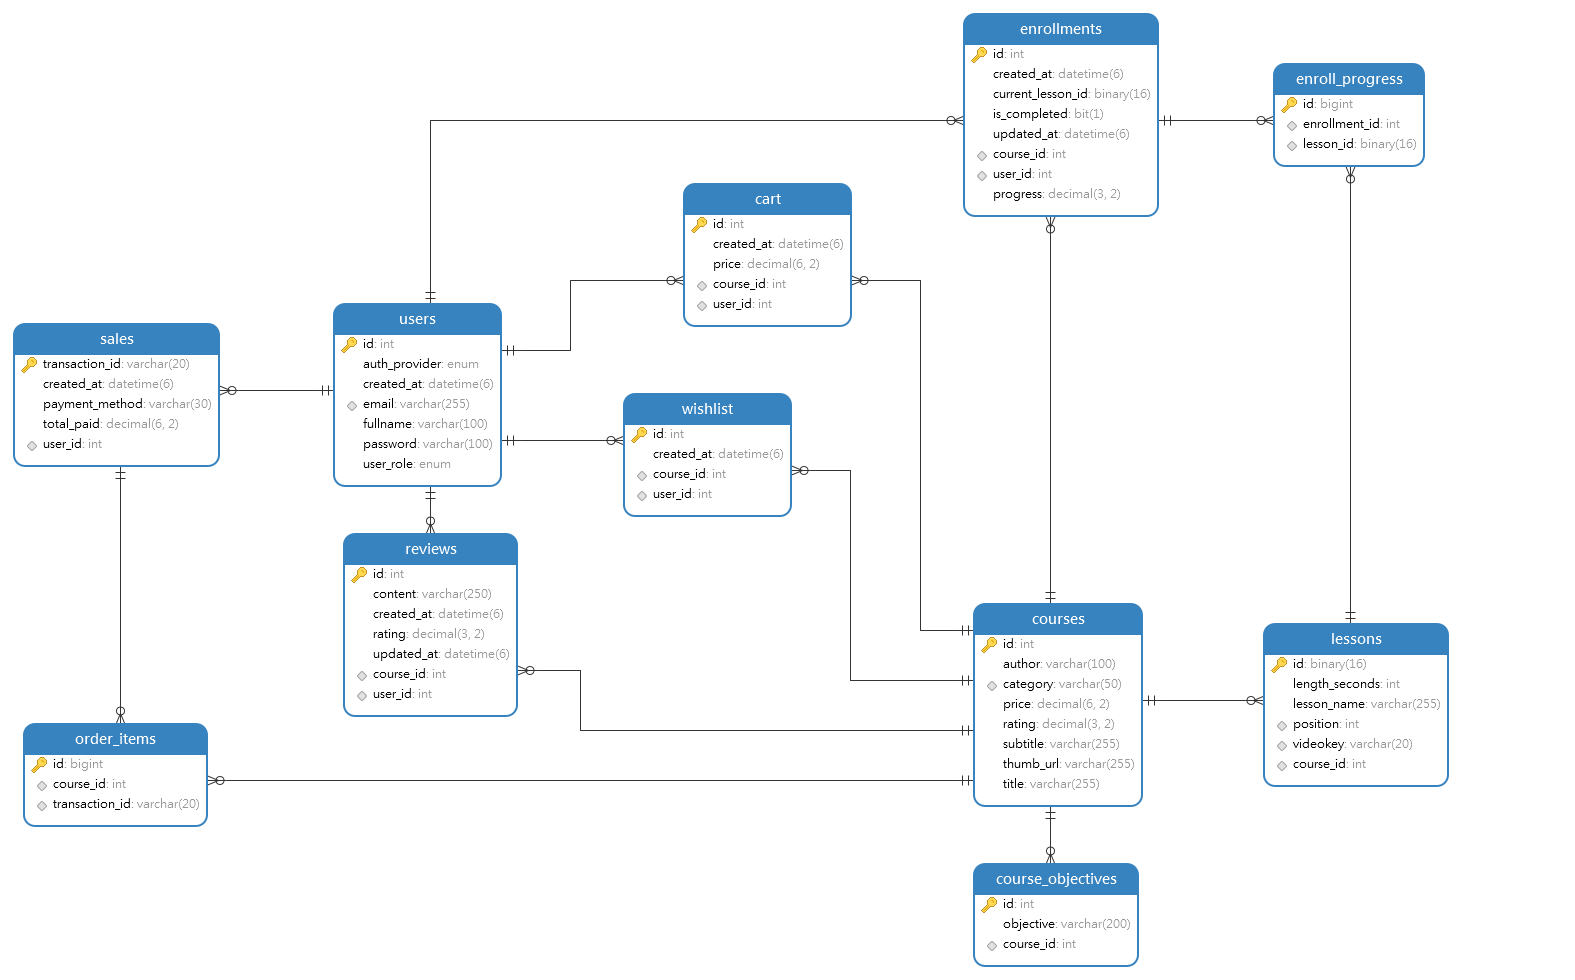
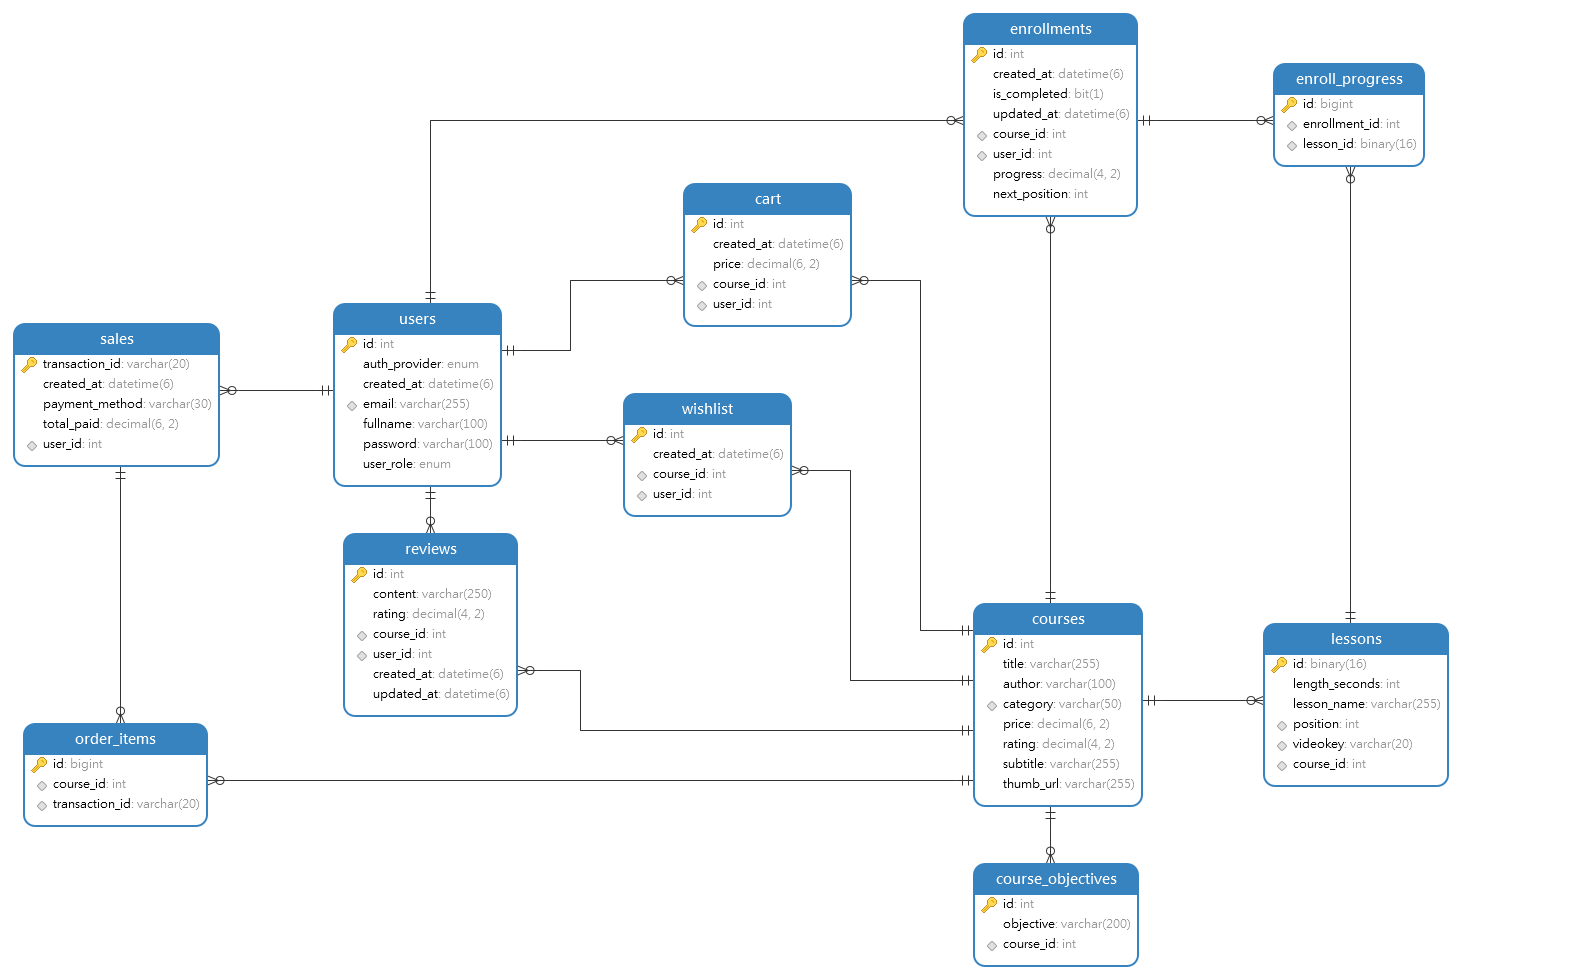
SUPER COMPLEX NATIVE QUERY for WatchedLessons

diff --git a/src/main/java/com/davistiba/wedemyserver/controllers/LessonController.java b/src/main/java/com/davistiba/wedemyserver/controllers/LessonController.java
@@ -1,34 +1,24 @@
 package com.davistiba.wedemyserver.controllers;
 
-import com.davistiba.wedemyserver.dto.VideoRequest;
-import com.davistiba.wedemyserver.dto.VideoResponse;
 import com.davistiba.wedemyserver.models.Course;
-import com.davistiba.wedemyserver.models.Enrollment;
 import com.davistiba.wedemyserver.models.Lesson;
 import com.davistiba.wedemyserver.models.MyCustomResponse;
 import com.davistiba.wedemyserver.repository.CourseRepository;
-import com.davistiba.wedemyserver.repository.EnrollmentRepository;
 import com.davistiba.wedemyserver.repository.LessonRepository;
-import com.davistiba.wedemyserver.service.MyUserDetailsService;
 import org.slf4j.Logger;
 import org.slf4j.LoggerFactory;
 import org.springframework.beans.factory.annotation.Autowired;
 import org.springframework.data.domain.PageRequest;
 import org.springframework.http.HttpStatus;
-import org.springframework.http.ResponseEntity;
 import org.springframework.scheduling.annotation.Async;
 import org.springframework.security.access.annotation.Secured;
 import org.springframework.web.bind.annotation.*;
-import org.springframework.web.server.ResponseStatusException;
 
-import javax.servlet.http.HttpSession;
-import javax.validation.Valid;
 import javax.validation.constraints.NotEmpty;
 import javax.validation.constraints.NotNull;
 import java.util.ArrayList;
 import java.util.List;
-import java.util.Optional;
-import java.util.UUID;
+import java.util.Map;
 import java.util.concurrent.CompletableFuture;
 
 @RestController
@@ -39,13 +29,9 @@ public class LessonController {
     private LessonRepository lessonRepository;
 
     @Autowired
-    private EnrollmentRepository enrollmentRepository;
-
-    @Autowired
     private CourseRepository courseRepository;
 
     private static final Logger logger = LoggerFactory.getLogger(LessonController.class);
-
 
     @GetMapping(path = "/course/{id}")
     @ResponseStatus(HttpStatus.OK)
@@ -53,32 +39,11 @@ public class LessonController {
         return lessonRepository.getLessonsByCourseId(id, PageRequest.of(page, 10));
     }
 
-    @PostMapping(path = "/videolink/builder")
-    @Secured(value = "ROLE_STUDENT")
-    public ResponseEntity<VideoResponse> getLessonVideoLink(@NotNull HttpSession session, @RequestBody @Valid VideoRequest request) {
-        try {
-            Integer userId = MyUserDetailsService.getSessionUserId(session);
-            Optional<Enrollment> enrollment = enrollmentRepository.getByUserIdAndCourseId(userId, request.getCourseId());
-            if (enrollment.isEmpty()) {
-                throw new Exception("You don't own this course");
-            }
-            UUID lessonId = UUID.fromString(request.getLessonId());
-            Lesson currentLesson = lessonRepository.findByIdAndCourseId(lessonId, request.getCourseId()).orElseThrow();
-            VideoResponse response = new VideoResponse(enrollment.get().getId(), currentLesson);
-            return ResponseEntity.ok().body(response);
-        } catch (Exception e) {
-            throw new ResponseStatusException(HttpStatus.BAD_REQUEST, "Sorry, could not get lesson", e);
-        }
-
-    }
-
-
     @PostMapping(path = "/")
     @ResponseStatus(HttpStatus.CREATED)
     @Secured(value = "ROLE_ADMIN")
     @Async
     public CompletableFuture<MyCustomResponse> addNewLessons(@RequestBody @NotEmpty List<Lesson> newLessons) {
-        /* === FOR ADMINS to ADD NEW LESSONS ==== */
         long startClock = System.nanoTime();
         final List<Lesson> mamas = new ArrayList<>();
         newLessons.forEach(lesson -> {
@@ -87,10 +52,18 @@ public class LessonController {
             lesson.setCourse(course);
             mamas.add(lesson);
         });
-        logger.info("totalTime: {} ms", (System.nanoTime() - startClock) / 1e6);
         lessonRepository.saveAll(mamas);
+        logger.info("totalTime: {} ms", (System.nanoTime() - startClock) / 1e6);
         return CompletableFuture.completedFuture(new MyCustomResponse("All saved!", true));
-
     }
+
+
+    @GetMapping(path = "/course/{courseId}/enroll/{enrollId}")
+    @ResponseStatus(HttpStatus.OK)
+    @Secured(value = "ROLE_STUDENT")
+    public List<Map<String, Object>> getAllWatchedLessons(@PathVariable Integer courseId, @PathVariable Integer enrollId) {
+        return lessonRepository.getAllWatchedLessons(enrollId, courseId);
+    }
+
 
 }

diff --git a/src/main/java/com/davistiba/wedemyserver/controllers/EnrollmentController.java b/src/main/java/com/davistiba/wedemyserver/controllers/EnrollmentController.java
@@ -1,6 +1,8 @@
 package com.davistiba.wedemyserver.controllers;
 
 import com.davistiba.wedemyserver.dto.EnrollmentDTO;
+import com.davistiba.wedemyserver.dto.VideoRequest;
+import com.davistiba.wedemyserver.dto.VideoResponse;
 import com.davistiba.wedemyserver.dto.WatchStatus;
 import com.davistiba.wedemyserver.models.Enrollment;
 import com.davistiba.wedemyserver.models.Lesson;
@@ -13,6 +15,7 @@ import org.springframework.cache.annotation.CacheEvict;
 import org.springframework.data.domain.PageRequest;
 import org.springframework.data.domain.Pageable;
 import org.springframework.http.HttpStatus;
+import org.springframework.http.ResponseEntity;
 import org.springframework.security.access.annotation.Secured;
 import org.springframework.web.bind.annotation.*;
 import org.springframework.web.server.ResponseStatusException;
@@ -61,6 +64,24 @@ public class EnrollmentController {
     }
 
 
+    @PostMapping(path = "/videolink/builder")
+    @Secured(value = "ROLE_STUDENT")
+    public ResponseEntity<VideoResponse> getLessonVideoLink(@NotNull HttpSession session, @RequestBody @Valid VideoRequest request) {
+        try {
+            Integer userId = MyUserDetailsService.getSessionUserId(session);
+            Optional<Enrollment> enrollment = enrollmentRepository.getByUserIdAndCourseId(userId, request.getCourseId());
+            if (enrollment.isEmpty()) {
+                throw new Exception("You don't own this course");
+            }
+            Lesson currentLesson = progressService.getNextLesson(enrollment.get());
+            VideoResponse response = new VideoResponse(enrollment.get().getId(), currentLesson);
+            return ResponseEntity.ok().body(response);
+        } catch (Exception e) {
+            throw new ResponseStatusException(HttpStatus.BAD_REQUEST, "Sorry, could not get lesson", e);
+        }
+
+    }
+
     @GetMapping(path = "/resume/course/{courseId}")
     @Secured(value = "ROLE_STUDENT")
     public Map<String, String> resumeMyCourse(@NotNull HttpSession session, @PathVariable Integer courseId) {
@@ -69,16 +90,12 @@ public class EnrollmentController {
         if (enrollment.isEmpty()) {
             throw new ResponseStatusException(HttpStatus.FORBIDDEN, "You don't own this course");
         }
-        UUID currentLessonId = enrollment.get().getCurrentLessonId();
-        if (currentLessonId == null) {
-            //fresh enroll!
-            Lesson firstLesson = lessonRepository.findByCourseIdAndPosition(courseId, 1).orElseThrow();
-            currentLessonId = firstLesson.getId();
-        }
+        UUID currentLessonId = progressService.getNextLesson(enrollment.get()).getId();
         Map<String, String> response = new HashMap<>();
         response.put("lessonId", currentLessonId.toString());
         return response;
     }
+
 
     @PostMapping(path = "/watched")
     @Secured(value = "ROLE_STUDENT")

diff --git a/src/main/java/com/davistiba/wedemyserver/service/EnrollProgressService.java b/src/main/java/com/davistiba/wedemyserver/service/EnrollProgressService.java
@@ -8,8 +8,6 @@ import com.davistiba.wedemyserver.repository.EnrollProgressRepository;
 import com.davistiba.wedemyserver.repository.EnrollmentRepository;
 import com.davistiba.wedemyserver.repository.LessonRepository;
 import org.jetbrains.annotations.NotNull;
-import org.slf4j.Logger;
-import org.slf4j.LoggerFactory;
 import org.springframework.beans.factory.annotation.Autowired;
 import org.springframework.stereotype.Service;
 import org.springframework.transaction.annotation.Transactional;
@@ -31,7 +29,6 @@ public class EnrollProgressService {
     @Autowired
     private EnrollmentRepository enrollmentRepository;
 
-    public static final Logger logger = LoggerFactory.getLogger(EnrollProgressService.class);
 
     /**
      * Update tables, then return next lesson
@@ -54,12 +51,15 @@ public class EnrollProgressService {
             long currentPosition = currentLesson.getPosition();
             long totalLessons = lessonRepository.countByCourseId(status.getCourseId());
             double valDouble = (double) currentPosition / (double) totalLessons * 100.00;
+            boolean isCompleted = (valDouble / 100.00) == 1;
 
             //update `Enrollments` table
-            logger.info("percent {}", valDouble);
             BigDecimal progressPercent = BigDecimal.valueOf(valDouble).setScale(2, RoundingMode.FLOOR);
-            enrollment.setCurrentLessonId(lessonId);
             enrollment.setProgress(progressPercent);
+            enrollment.setIsCompleted(isCompleted);
+            if (!isCompleted) {
+                enrollment.setNextPosition(currentLesson.getPosition() + 1);
+            }
             enrollmentRepository.save(enrollment);
 
             //get next lesson
@@ -73,6 +73,18 @@ public class EnrollProgressService {
         Integer nextPosition = currentLesson.getPosition() + 1;
         return lessonRepository.findByCourseIdAndPosition(courseId, nextPosition).orElseThrow();
 
+    }
+
+
+    /**
+     * Get the next lesson for this Enrollment
+     *
+     * @param enrollment current
+     * @return next lessonId
+     */
+    public Lesson getNextLesson(@NotNull Enrollment enrollment) {
+        Integer nextPosition = enrollment.getNextPosition();
+        return lessonRepository.findByCourseIdAndPosition(enrollment.getCourse().getId(), nextPosition).orElseThrow();
     }
 
 }

diff --git a/src/main/java/com/davistiba/wedemyserver/repository/EnrollmentRepository.java b/src/main/java/com/davistiba/wedemyserver/repository/EnrollmentRepository.java
@@ -5,15 +5,11 @@ import com.davistiba.wedemyserver.models.Enrollment;
 import com.davistiba.wedemyserver.models.User;
 import org.springframework.data.domain.Pageable;
 import org.springframework.data.jpa.repository.JpaRepository;
-import org.springframework.data.jpa.repository.Modifying;
 import org.springframework.data.jpa.repository.Query;
 import org.springframework.stereotype.Repository;
 
-import java.math.BigDecimal;
-import java.time.Instant;
 import java.util.List;
 import java.util.Optional;
-import java.util.UUID;
 
 @Repository
 public interface EnrollmentRepository extends JpaRepository<Enrollment, Integer> {
@@ -24,14 +20,14 @@ public interface EnrollmentRepository extends JpaRepository<Enrollment, Integer>
 
     long countEnrollmentByUser(User user);
 
-    @Query(value = "SELECT e FROM Enrollment e WHERE e.user.id = ?1 AND e.course.id = ?2")
-    Optional<Enrollment> getByUserIdAndCourseId(Integer userId, Integer courseId);
+    @Query(value = "SELECT e FROM Enrollment e WHERE e.user.id = ?1 AND e.id = ?2")
+    Optional<Enrollment> getByUserIdAndEnrollId(Integer userId, Integer enrollId);
 
     @Query("SELECT new com.davistiba.wedemyserver.dto.EnrollmentDTO(e.id, e.progress, c.title, c.thumbUrl, c.id) FROM Enrollment e " +
             "INNER JOIN Course c ON e.course.id = c.id WHERE e.user.id = ?1 ORDER BY e.id DESC")
     List<EnrollmentDTO> findByUserId(Integer userId, Pageable pageable);
+    
+    @Query(value = "SELECT e FROM Enrollment e WHERE e.user.id = ?1 AND e.course.id = ?2")
+    Optional<Enrollment> getByUserIdAndCourseId(Integer userId, Integer courseId);
 
-    @Modifying
-    @Query("UPDATE Enrollment e SET e.currentLessonId = ?1, e.progress = ?2, e.updatedAt = ?3 WHERE e.id = ?4")
-    int updateCustom(UUID currentLessonId, BigDecimal progress, Instant updatedAt, Integer id);
 }

diff --git a/src/main/java/com/davistiba/wedemyserver/repository/LessonRepository.java b/src/main/java/com/davistiba/wedemyserver/repository/LessonRepository.java
@@ -7,6 +7,7 @@ import org.springframework.data.repository.CrudRepository;
 import org.springframework.stereotype.Repository;
 
 import java.util.List;
+import java.util.Map;
 import java.util.Optional;
 import java.util.UUID;
 
@@ -16,9 +17,6 @@ public interface LessonRepository extends CrudRepository<Lesson, Integer> {
     @Query(value = "SELECT n FROM Lesson n where n.course.id = ?1 ORDER BY n.position")
     List<Lesson> getLessonsByCourseId(Integer courseId, Pageable pageable);
 
-    @Query("SELECT s FROM Lesson s WHERE s.id = ?1 and s.course.id = ?2")
-    Optional<Lesson> findByIdAndCourseId(UUID lessonId, Integer courseId);
-
     @Query("SELECT s FROM Lesson s where s.course.id = ?1 and s.position = ?2")
     Optional<Lesson> findByCourseIdAndPosition(Integer courseId, Integer position);
 
@@ -26,6 +24,11 @@ public interface LessonRepository extends CrudRepository<Lesson, Integer> {
     long countByCourseId(Integer id);
 
     Optional<Lesson> findLessonById(UUID id);
+
+    @Query(value = "SELECT BIN_TO_UUID(s.id) as id, s.lesson_name, s.position, TIME_FORMAT(SEC_TO_TIME(s.length_seconds), " +
+            "'%i:%s') AS fmt_time, EXISTS(SELECT 1 FROM enroll_progress p WHERE p.lesson_id = s.id AND p.enrollment_id = ?1) " +
+            "AS isWatched FROM lessons s WHERE s.course_id = ?2 ORDER BY s.position", nativeQuery = true)
+    List<Map<String, Object>> getAllWatchedLessons(Integer enrollId, Integer courseId);
 
 
 }

diff --git a/src/main/java/com/davistiba/wedemyserver/models/Enrollment.java b/src/main/java/com/davistiba/wedemyserver/models/Enrollment.java
@@ -16,7 +16,6 @@ import java.math.BigDecimal;
 import java.math.RoundingMode;
 import java.time.Instant;
 import java.util.Objects;
-import java.util.UUID;
 
 @Entity
 @Getter
@@ -35,7 +34,7 @@ public class Enrollment {
     @JoinColumn(name = "user_id", referencedColumnName = "id")
     private User user;
 
-    @ManyToOne(optional = false, fetch = FetchType.EAGER)
+    @ManyToOne(optional = false, fetch = FetchType.LAZY)
     @JoinColumn(name = "course_id", referencedColumnName = "id")
     @JsonBackReference
     private Course course;
@@ -44,8 +43,8 @@ public class Enrollment {
     @ColumnDefault(value = "false")
     private Boolean isCompleted = false;
 
-    @Column(name = "current_lesson_id", columnDefinition = "BINARY(16)")
-    private UUID currentLessonId;
+    @ColumnDefault(value = "1")
+    private Integer nextPosition = 1;
 
     @ColumnDefault("0")
     @Max(100)

diff --git a/src/main/java/com/davistiba/wedemyserver/repository/EnrollProgressRepository.java b/src/main/java/com/davistiba/wedemyserver/repository/EnrollProgressRepository.java
@@ -1,10 +1,12 @@
 package com.davistiba.wedemyserver.repository;
 
 import com.davistiba.wedemyserver.models.EnrollProgress;
+import org.springframework.data.domain.Pageable;
 import org.springframework.data.jpa.repository.Query;
 import org.springframework.data.repository.CrudRepository;
 import org.springframework.stereotype.Repository;
 
+import java.util.List;
 import java.util.Optional;
 import java.util.UUID;
 
@@ -17,5 +19,6 @@ public interface EnrollProgressRepository extends CrudRepository<EnrollProgress,
     @Query("select e from EnrollProgress e where e.enrollment.id = ?1 and e.lesson.id = ?2")
     Optional<EnrollProgress> findByEnrollIdAndLessonId(Integer enrollId, UUID lessonId);
 
-
+    @Query("select e from EnrollProgress e where e.enrollment.id = ?1 ORDER BY e.id DESC")
+    List<EnrollProgress> findFirstByEnrollmentId(Integer enrollId, Pageable pageable);
 }

diff --git a/src/main/java/com/davistiba/wedemyserver/models/EnrollProgress.java b/src/main/java/com/davistiba/wedemyserver/models/EnrollProgress.java
@@ -28,7 +28,7 @@ public class EnrollProgress {
     @JsonBackReference
     private Enrollment enrollment;
 
-    @ManyToOne(optional = false, fetch = FetchType.LAZY)
+    @ManyToOne(optional = false, fetch = FetchType.EAGER)
     @JoinColumn(name = "lesson_id", referencedColumnName = "id")
     @JsonBackReference
     private Lesson lesson;

diff --git a/src/main/java/com/davistiba/wedemyserver/dto/VideoRequest.java b/src/main/java/com/davistiba/wedemyserver/dto/VideoRequest.java
@@ -14,4 +14,6 @@ public class VideoRequest {
 
     public VideoRequest() {
     }
+
+
 }

diff --git a/README.md b/README.md
@@ -70,7 +70,7 @@ DB. To get QUICKLY STARTED:
 
 This project uses Redis for 2 main tasks: Caching, and Storing login sessions. You can download latest Redis (macOS &
 Linux) from https://redis.io/download. Windows users may download the latest native installer (.msi)
-from [this Github repo](https://github.com/tporadowski/redis/releases). Alternatively, you could run redis using Docker.
+from [this Github repo](https://github.com/tporadowski/redis/releases). Alternatively, you could run redis in Docker.
 If you prefer the Cloud instead, you could try Redis Cloud at: https://redis.com/try-free/. Remember to replace
 redis credentials inside `application.yml` to match your running Redis instance.
 
@@ -80,8 +80,8 @@ redis credentials inside `application.yml` to match your running Redis instance.
 ## Payments Handling
 
 All payments are securely handled by **Braintree Payments** (owned by PayPal), which also supports cards, Apple Pay,
-GooglePay, Venmo and many other methods. This project has been configured for Credit-Card(default) and PayPal Checkout
-only, in SANDBOX (test) mode. Make sure you obtain a set of 3 API Keys from your own Braintree Dev Account and store
+GooglePay, Venmo and many other methods. This project has been configured with Credit-Card and PayPal Checkout only,
+in SANDBOX (test) mode. Make sure you obtain a set of 3 API Keys from your own Braintree Dev Account and store
 them as ENV variables: `BT_MERCHANT_ID`, `BT_PUBLIC_KEY` and `BT_PRIVATE_KEY`. For Braintree tutorials and examples,
 please check their well-written [official docs](https://developer.paypal.com/braintree/docs) or GitHub page.
 
